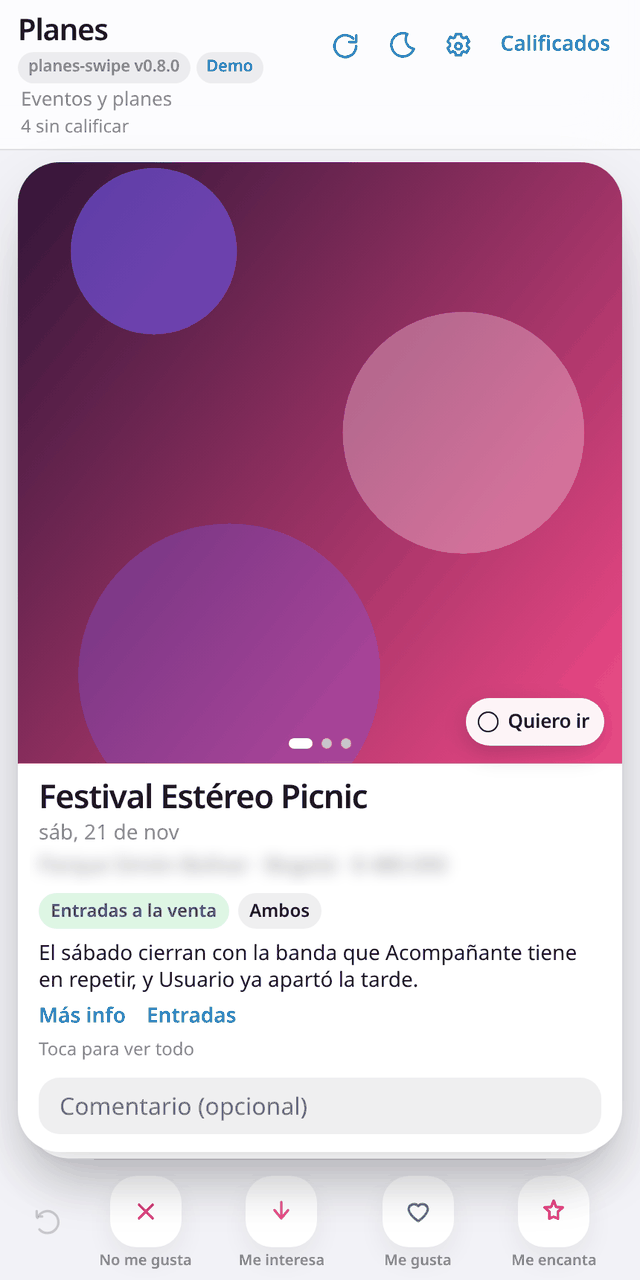
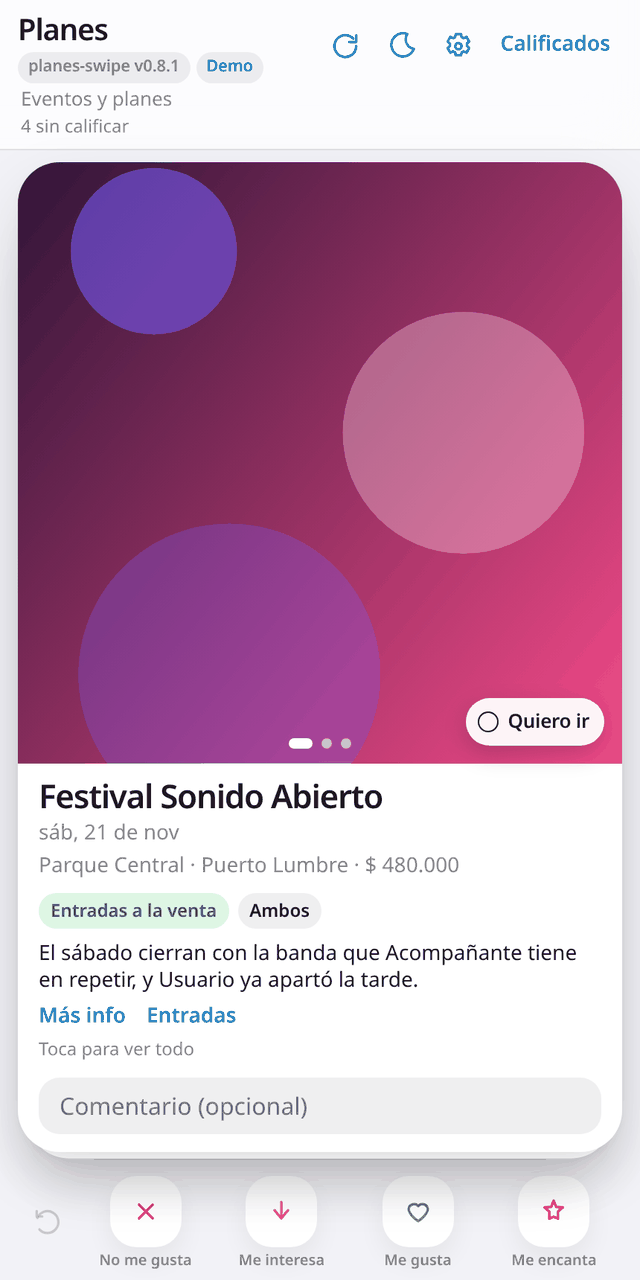
Usar lugares ficticios en los datos de demo

Changed region(s): [[0.0625, 0.5938, 0.7188, 0.6875]]

diff --git a/js/demo.js b/js/demo.js
@@ -5,15 +5,15 @@ const ROWS = [
   {
     id: "EV-101",
     fecha_registro: "2026-10-01",
-    nombre_evento: "Festival Estéreo Picnic",
+    nombre_evento: "Festival Sonido Abierto",
     categoria: "Música",
     fecha_evento: "2026-11-21",
-    ciudad: "Bogotá",
-    departamento: "Cundinamarca",
-    lugar: "Parque Simón Bolívar",
+    ciudad: "Puerto Lumbre",
+    departamento: "Región Norte",
+    lugar: "Parque Central",
     precio: "480000",
     estado: "Entradas a la venta",
-    link_info: "https://example.com/estereo",
+    link_info: "https://example.com/sonido-abierto",
     link_entradas: "https://example.com/entradas",
     para_quien: "Ambos",
     motivo_recomendacion: "El sábado cierran con la banda que Acompañante tiene en repetir, y Usuario ya apartó la tarde.",
@@ -31,9 +31,9 @@ const ROWS = [
     nombre_evento: "La casa de los espíritus",
     categoria: "Teatro",
     fecha_evento: "2026-11-02",
-    ciudad: "Bogotá",
-    departamento: "Cundinamarca",
-    lugar: "Teatro Colón",
+    ciudad: "Puerto Lumbre",
+    departamento: "Región Norte",
+    lugar: "Teatro Municipal",
     precio: "90000",
     estado: "Solo anuncio",
     link_info: "https://example.com/teatro",
@@ -50,9 +50,9 @@ const ROWS = [
     nombre_evento: "Mercado campesino",
     categoria: "Comida",
     fecha_evento: "2026-10-18",
-    ciudad: "Bogotá",
-    departamento: "Cundinamarca",
-    lugar: "La Perseverancia",
+    ciudad: "Puerto Lumbre",
+    departamento: "Región Norte",
+    lugar: "Plaza Vieja",
     precio: "Gratis",
     estado: "Solo anuncio",
     para_quien: "Acompañante",
@@ -64,12 +64,12 @@ const ROWS = [
   {
     id: "EV-104",
     fecha_registro: "2026-10-04",
-    nombre_evento: "Noche en el Movistar Arena",
+    nombre_evento: "Noche en la Arena Norte",
     categoria: "Música",
     fecha_evento: "2026-12-05",
-    ciudad: "Bogotá",
-    departamento: "Cundinamarca",
-    lugar: "Movistar Arena",
+    ciudad: "Puerto Lumbre",
+    departamento: "Región Norte",
+    lugar: "Arena Norte",
     precio: "350000",
     estado: "Agotado",
     para_quien: "Ambos",
@@ -84,17 +84,17 @@ const ROWS = [
     nombre_evento: "Ciclovía nocturna",
     categoria: "Aire libre",
     fecha_evento: "2026-10-25",
-    ciudad: "Bogotá",
-    departamento: "Cundinamarca",
-    lugar: "Carrera 7",
+    ciudad: "Puerto Lumbre",
+    departamento: "Región Norte",
+    lugar: "Avenida del Río",
     precio: "Gratis",
     estado: "Solo anuncio",
     para_quien: "Ambos",
-    motivo_recomendacion: "La séptima se presta para ir sin afán.",
+    motivo_recomendacion: "La avenida se presta para ir sin afán.",
     ultima_revision: "2026-10-08",
     preferencia: "me_encanta",
     calificado_en: "2026-10-10T19:04:00-05:00",
-    comentario_usuario: "Repetir cuando abran la 26",
+    comentario_usuario: "Repetir cuando abran el otro tramo",
     imagen_1: "img/park.svg",
     "quiero ir": "TRUE",
   },
@@ -104,9 +104,9 @@ const ROWS = [
     nombre_evento: "Cine en el parque",
     categoria: "Cine",
     fecha_evento: "2026-10-30",
-    ciudad: "Bogotá",
-    departamento: "Cundinamarca",
-    lugar: "Parque Nacional",
+    ciudad: "Puerto Lumbre",
+    departamento: "Región Norte",
+    lugar: "Parque del Lago",
     precio: "Gratis",
     estado: "Entradas a la venta",
     para_quien: "Acompañante",
@@ -123,9 +123,9 @@ const ROWS = [
     nombre_evento: "Feria del libro",
     categoria: "Cultura",
     fecha_evento: "2026-11-08",
-    ciudad: "Bogotá",
-    departamento: "Cundinamarca",
-    lugar: "Corferias",
+    ciudad: "Puerto Lumbre",
+    departamento: "Región Norte",
+    lugar: "Centro de Convenciones",
     precio: "20000",
     estado: "Entradas a la venta",
     para_quien: "Usuario",
@@ -139,12 +139,12 @@ const ROWS = [
   {
     id: "EV-055",
     fecha_registro: "2026-08-18",
-    nombre_evento: "Partido en El Campín",
+    nombre_evento: "Partido en el Estadio Municipal",
     categoria: "Deporte",
     fecha_evento: "2026-11-15",
-    ciudad: "Bogotá",
-    departamento: "Cundinamarca",
-    lugar: "Estadio El Campín",
+    ciudad: "Puerto Lumbre",
+    departamento: "Región Norte",
+    lugar: "Estadio Municipal",
     precio: "120000",
     estado: "Cancelado",
     para_quien: "Usuario",
